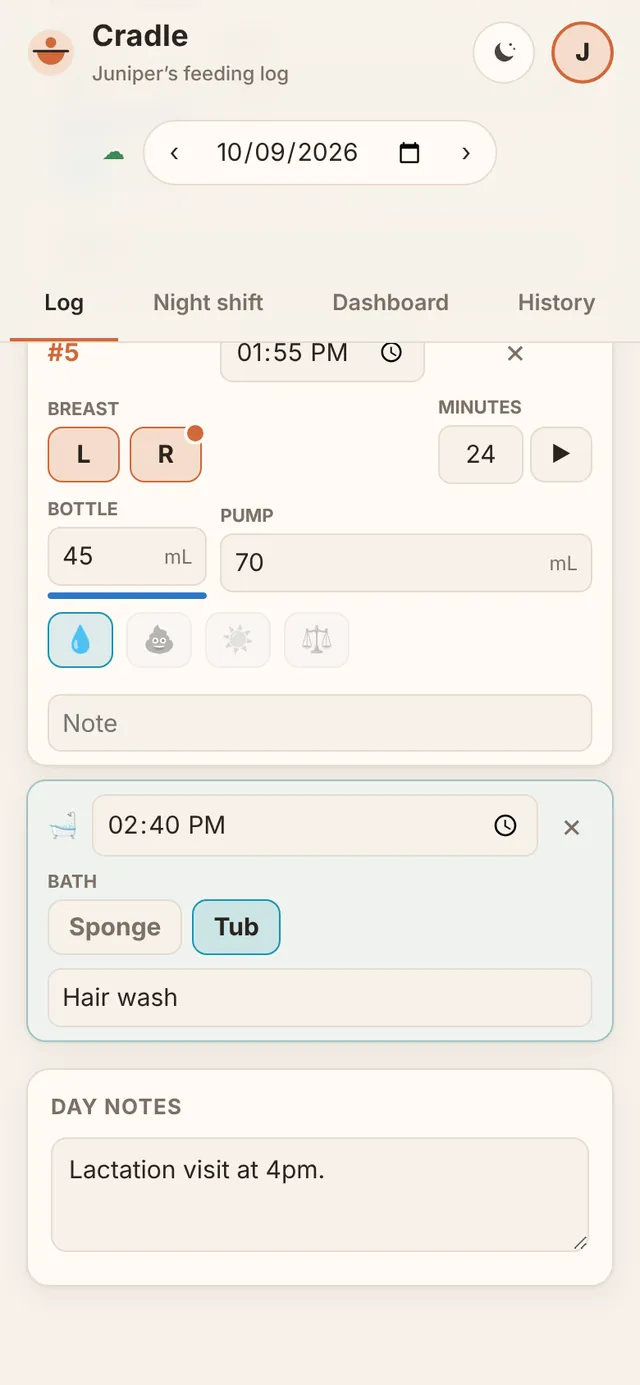
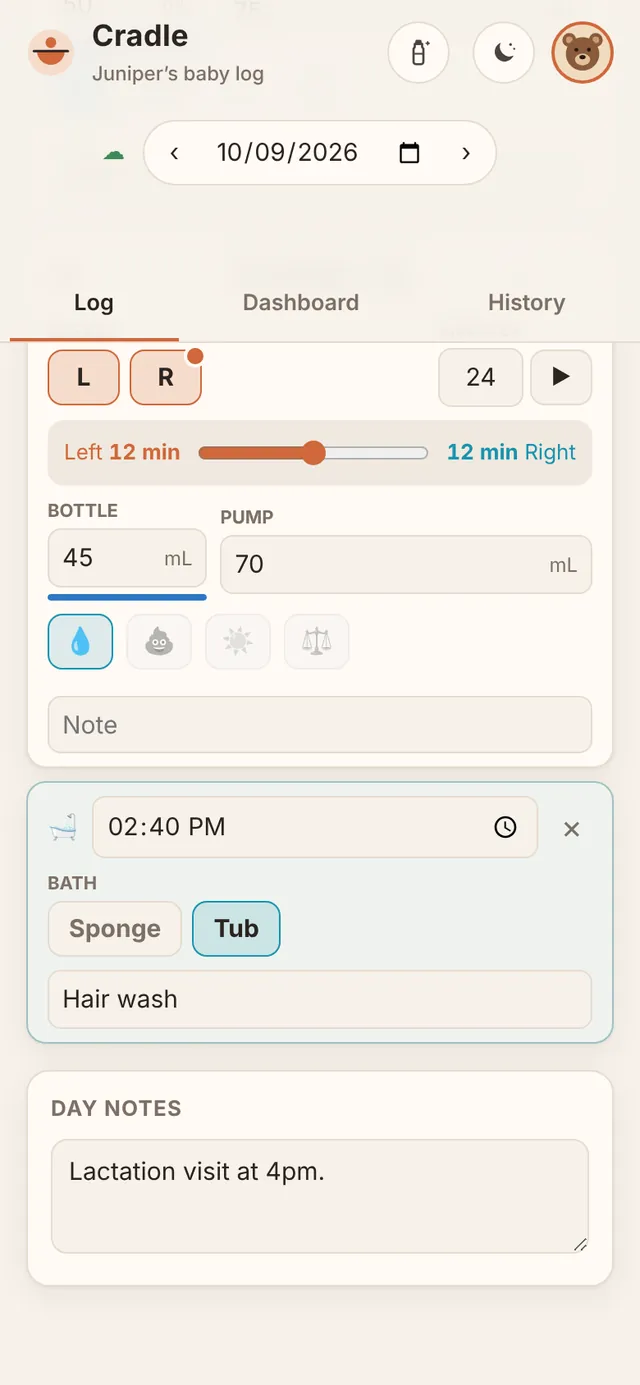
Docs: fresh screenshots for v1.22
- Log, Dashboard, chart explorer, History, bath, Family, and the five theme
  shots retaken: three tabs, the Night shift button, a profile picture, and
  the current Log layout and wording (they still showed the Night shift tab
  and older labels)
- tools/screenshots/take.mjs and to_webp.py make them repeatable
- Overview and README mention pictures on the Family screen

Claude-Session: https://claude.ai/code/session_01C2LP9XX3HMhgrsmSLqk1xr

diff --git a/docs/overview.html b/docs/overview.html
@@ -336,7 +336,7 @@ footer code{font-family:var(--mono); font-size:13px}
       <div class="sec-head" style="margin-bottom:0">
         <p class="eyebrow">Family sharing</p>
         <h2>Everyone gets a login. The family shares one log.</h2>
-        <p class="lede">Whoever is on duty logs it, and every other phone has it within about 15 seconds. Two people can even edit the same feed: changes to different boxes are combined, and a note says who changed what. Each family's log is walled off from every other family by the database itself.</p>
+        <p class="lede">Whoever is on duty logs it, and every other phone has it within about 15 seconds. Two people can even edit the same feed: changes to different boxes are combined, and a note says who changed what. Each family's log is walled off from every other family by the database itself. Everyone can add a picture, a photo or a built-in one, and choose who sees it.</p>
       </div>
       <div class="key"><code>K7QM-4XPD</code><span>A share key. Text it to anyone who should see this log.</span></div>
       <div class="flow">
@@ -346,7 +346,7 @@ footer code{font-family:var(--mono); font-size:13px}
       </div>
     </div>
     <div class="family-shots">
-      <div class="phone"><img src="screenshots/family.webp" alt="Family screen with members and the share key"></div>
+      <div class="phone"><img src="screenshots/family.webp" alt="Family screen with each person's picture and the share key"></div>
       <div class="phone"><img src="screenshots/signup.webp" alt="Create account screen"></div>
     </div>
   </div>

diff --git a/tools/screenshots/to_webp.py b/tools/screenshots/to_webp.py
@@ -1,0 +1,16 @@
+#!/usr/bin/env python3
+"""Converts the screenshots from take.mjs (tests/out/shots/*.png) into docs/screenshots/*.webp,
+at the 640-pixel width the overview page and README use. Needs Pillow (pip install pillow)."""
+import glob, os
+from PIL import Image
+
+here = os.path.dirname(os.path.abspath(__file__))
+repo = os.path.abspath(os.path.join(here, '..', '..'))
+for src in sorted(glob.glob(os.path.join(repo, 'tests', 'out', 'shots', '*.png'))):
+    name = os.path.splitext(os.path.basename(src))[0]
+    im = Image.open(src).convert('RGB')
+    w = 640
+    im = im.resize((w, round(im.height * w / im.width)), Image.LANCZOS)
+    dst = os.path.join(repo, 'docs', 'screenshots', name + '.webp')
+    im.save(dst, 'WEBP', quality=80, method=6)
+    print(dst, im.size)

diff --git a/README.md b/README.md
@@ -16,7 +16,7 @@ Nurse, bottle, pump, diapers, Vitamin D, and baths, shared live between family p
   <img src="docs/screenshots/log.webp" width="200" alt="Log tab">
   <img src="docs/screenshots/night.webp" width="200" alt="Night shift">
   <img src="docs/screenshots/dash.webp" width="200" alt="Dashboard">
-  <img src="docs/screenshots/family.webp" width="200" alt="Family screen with a share key">
+  <img src="docs/screenshots/family.webp" width="200" alt="Family screen with pictures and a share key">
 </p>
 <p align="center"><sub>Screenshots show example data for a made-up baby. Product overview: <a href="docs/overview.html">docs/overview.html</a> (open it in a browser).</sub></p>
 
@@ -92,6 +92,7 @@ supabase/
   invite-email.html    Optional "Welcome to Cradle" email template
 netlify.toml           Lets Netlify build and publish straight from this repo
 tools/words/           Builds Daily Word's word lists into cradle.html
+tools/screenshots/     Retakes the screenshots in docs/ with the made-up baby
 tests/                 Over 300 automated checks; run on every push by .github/workflows/tests.yml
 docs/                  The guides above, the product overview page, and screenshots
 ```
